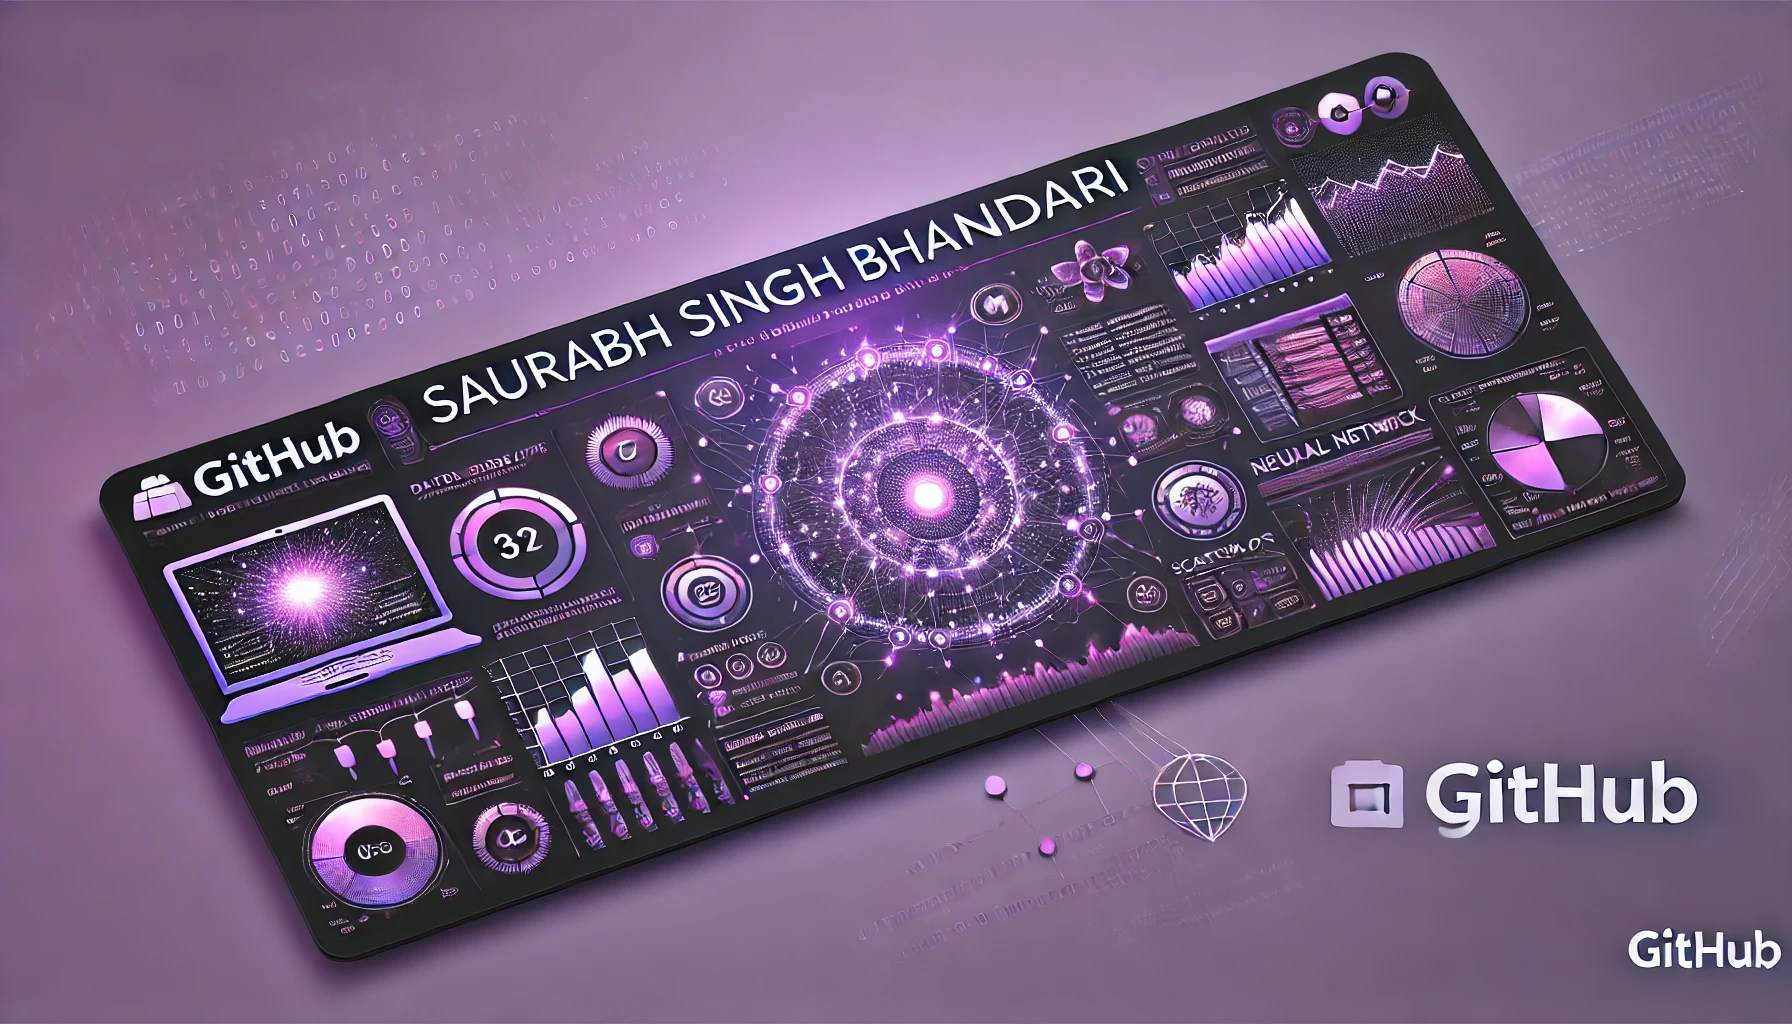
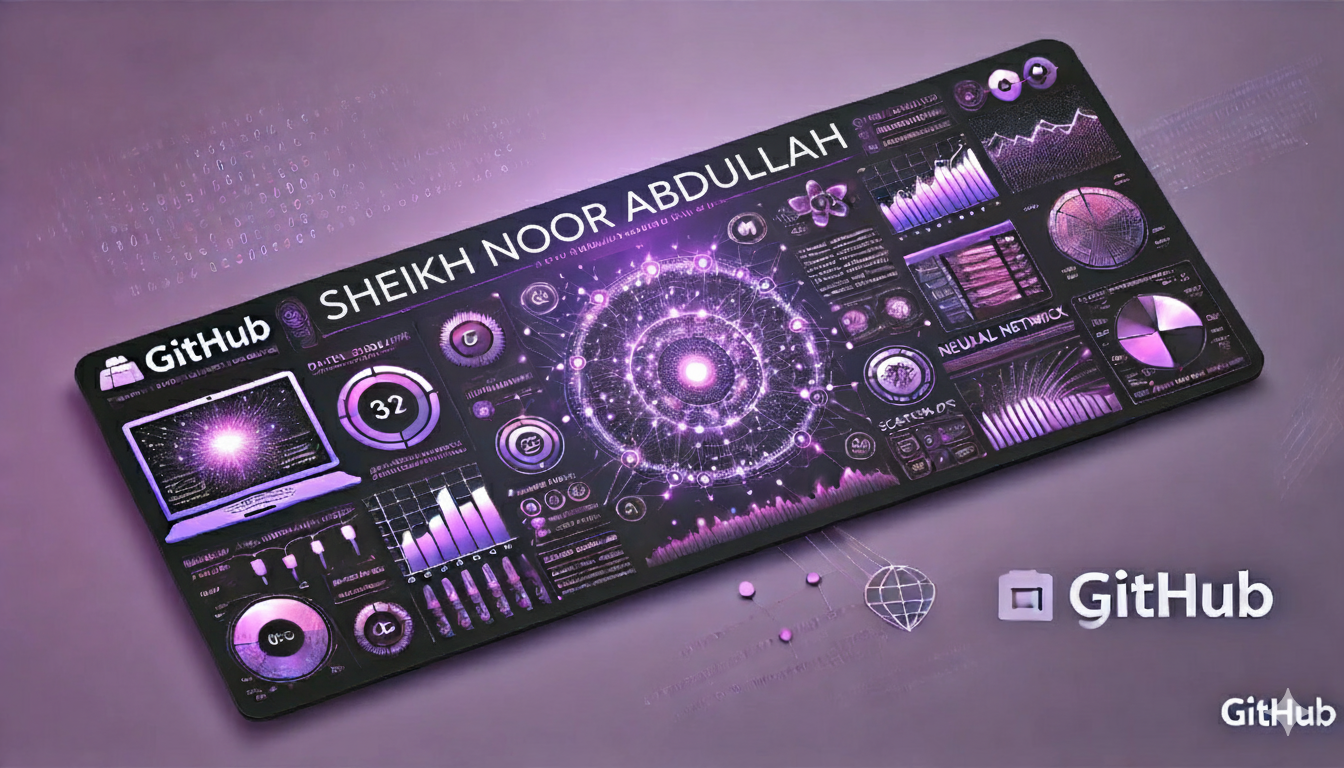
Initial commit

diff --git a/README.md b/README.md
@@ -1,5 +1,5 @@
 <a href="https://noor-abdullah.vercel.app/">
-  <img src="https://raw.githubusercontent.com/SaurabhSSB/SaurabhSSB/main/Image.webp" alt="Logo">
+  <img src="https://raw.githubusercontent.com/NoorAbdullah02/NoorAbdullah02/main/Image.webp" alt="Logo">
 </a>
 <h1 align="center">Hi 👋, I'm Sheikh Noor Abdullah</h1>
 <h3 align="center">A driven and confident data science student with a solid foundation in computer science, characterized by a strong sense of self-assurance, capability, and unwavering commitment to excellence in every endeavor</h3>
